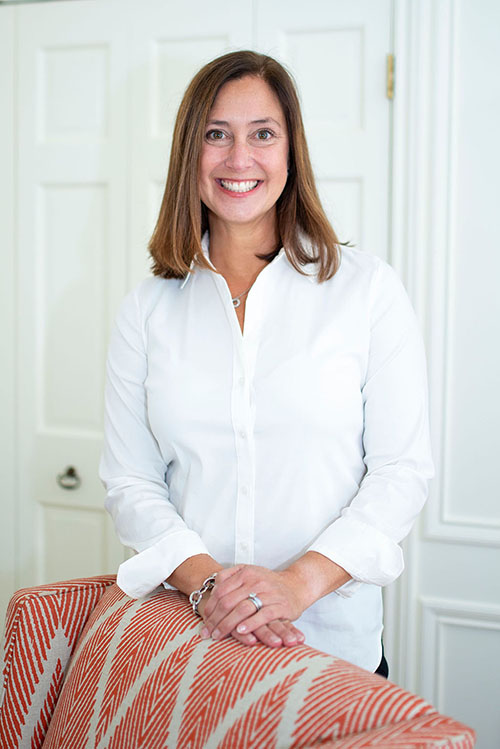
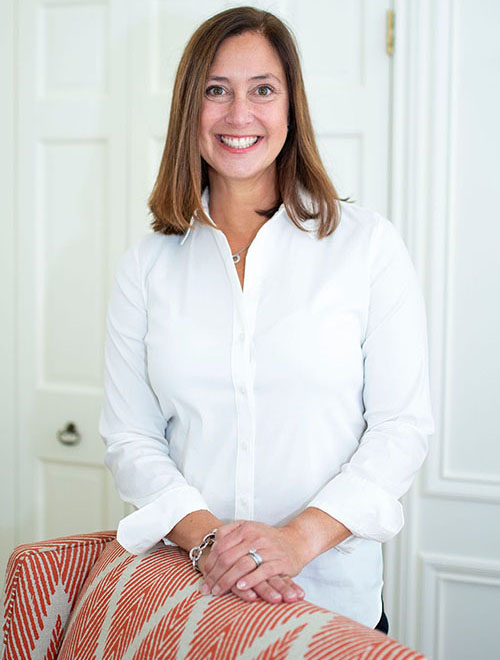
update bio pictures

diff --git a/src/components/BioCardsHome.js b/src/components/BioCardsHome.js
@@ -1,6 +1,6 @@
 import React, { Component } from "react";
-import Profile01 from "../images/molly01.jpg";
-import Profile02 from "../images/katie01.jpg";
+import Molly01 from "../images/molly01.jpg";
+import Katie01 from "../images/katie01.jpg";
 
 class BioCardsHome extends Component {
   render() {
@@ -12,7 +12,7 @@ class BioCardsHome extends Component {
           <div className='col ml-4'>
             <div class='card p-4'>
               <img
-                src={Profile01}
+                src={Molly01}
                 className='card-img-top'
                 alt='Molly Deckert'
               />
@@ -29,7 +29,7 @@ class BioCardsHome extends Component {
           <div className='col ml-4'>
             <div className='card p-4'>
               <img
-                src={Profile02}
+                src={Katie01}
                 className='card-img-top'
                 alt='Katie Corder'
               />
